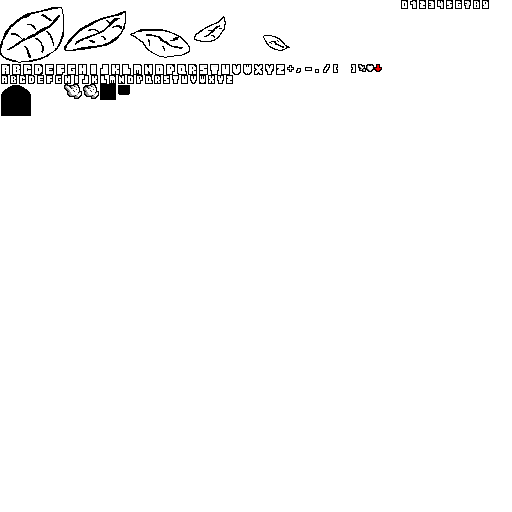
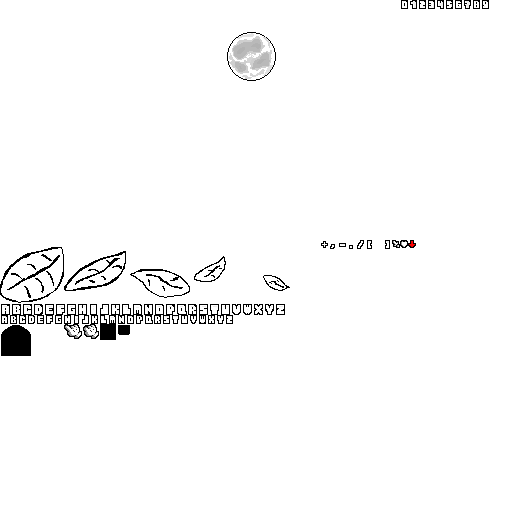
[Add] Moon background.

diff --git a/GraphicsEngine/Game/Src/Levels/MainLevel.cpp b/GraphicsEngine/Game/Src/Levels/MainLevel.cpp
@@ -142,6 +142,8 @@ namespace game
 
 	void MainLevel::CombatState::Reset(State& state, const LevelInfo& info)
 	{
+		backgroundType = static_cast<BackgroundType>(rand() % static_cast<int>(BackgroundType::count));
+
 		const bool bossPresent = (state.depth + 1) % ROOM_COUNT_BEFORE_BOSS == 0;
 		const auto& gameState = info.gameState;
 
@@ -1562,9 +1564,19 @@ namespace game
 		++state.depth;
 	}
 
-	void MainLevel::CombatState::DrawParallaxBackground(const LevelUpdateInfo& info, const bool mirror)
+	void MainLevel::CombatState::DrawParallaxBackground(const LevelUpdateInfo& info, const bool mirror) const
 	{
 		glm::vec2 mouseOffset = info.inputState.mousePos - SIMULATED_RESOLUTION / 2;
+
+		if(backgroundType == BackgroundType::moonLight)
+		{
+			auto subTexture = info.atlasTextures[static_cast<uint32_t>(TextureId::moon)].subTexture;
+
+			PixelPerfectRenderTask renderTask{};
+			renderTask.scale = SIMULATED_RESOLUTION;
+			renderTask.subTexture = subTexture;
+			info.renderTasks.Push(renderTask);
+		}
 
 		PixelPerfectRenderTask renderTask{};
 		renderTask.scale = glm::ivec2(64);
@@ -1891,8 +1903,6 @@ namespace game
 		states[4] = info.arena.New<RewardFlawCardState>();
 		states[5] = info.arena.New<RewardArtifactState>();
 		stateMachine = LevelStateMachine<State>::Create(info, states, State::Create(info));
-		stateMachine.state.depth = 99;
-		stateMachine.next = stateMachine.current;
 		ingameMenuOpened = false;
 	}
 

diff --git a/GraphicsEngine/Game/Include/Levels/MainLevel.h b/GraphicsEngine/Game/Include/Levels/MainLevel.h
@@ -59,6 +59,12 @@ namespace game
 				hand
 			} selectionState;
 
+			enum class BackgroundType
+			{
+				moonLight,
+				count
+			};
+
 			float time;
 			uint32_t eventCards[EVENT_CARD_MAX_COUNT];
 			uint32_t previousEventCards[EVENT_CARD_MAX_COUNT];
@@ -78,6 +84,7 @@ namespace game
 			float timeSinceStackOverloaded;
 			float timeSinceEmptyStack;
 			bool overloaded;
+			BackgroundType backgroundType;
 
 			void Reset(State& state, const LevelInfo& info) override;
 			bool Update(State& state, Level* level, const LevelUpdateInfo& info, uint32_t& stateIndex, LevelIndex& loadLevelIndex) override;
@@ -100,7 +107,7 @@ namespace game
 			[[nodiscard]] static uint32_t GetEventCardCount(const State& state);
 			static void Shake(const LevelUpdateInfo& info);
 			void OnExit(State& state, const LevelInfo& info) override;
-			static void DrawParallaxBackground(const LevelUpdateInfo& info, bool mirror);
+			void DrawParallaxBackground(const LevelUpdateInfo& info, bool mirror) const;
 		};
 
 		struct RewardMagicCardState final : LevelState<State>

diff --git a/GraphicsEngine/Game/Src/CardGame.cpp b/GraphicsEngine/Game/Src/CardGame.cpp
@@ -704,6 +704,7 @@ namespace game
 		arr[10] = "Art/manabar.png";
 		arr[11] = "Art/manabar_hollow.png";
 		arr[12] = "Art/manacrystal.png";
+		arr[13] = "Art/moon.png";
 		return arr;
 	}
 

diff --git a/GraphicsEngine/Game/Include/Macros.h b/GraphicsEngine/Game/Include/Macros.h
@@ -266,5 +266,6 @@ enum class TextureId
 	manabar,
 	manabarHollow,
 	manacrystal,
+	moon,
 	length
 };
